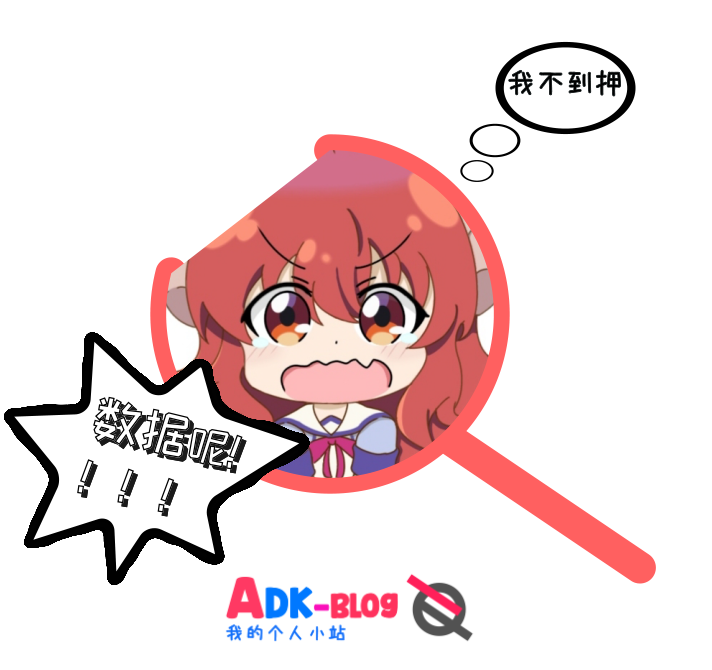
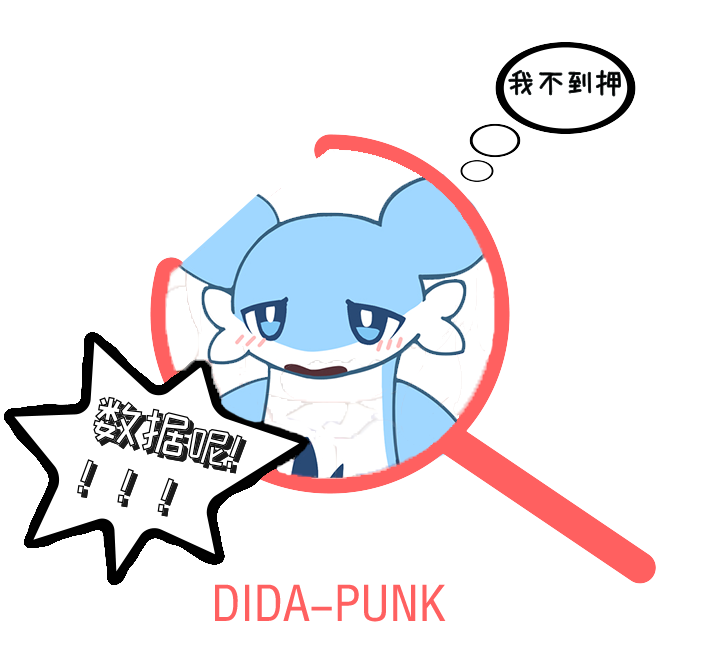
update

Changed region(s): [[0.2163, 0.209, 0.7107, 0.7164], [0.2781, 0.8657, 0.6798, 0.9552]]

diff --git a/components.d.ts b/components.d.ts
@@ -13,11 +13,15 @@ declare module 'vue' {
     Carousel: typeof import('./src/components/Carousel/Carousel.vue')['default']
     ChatRoom: typeof import('./src/components/ChatRoom/ChatRoom.vue')['default']
     CommentItem: typeof import('./src/components/CommentItem/CommentItem.vue')['default']
+    ElAlert: typeof import('element-plus/es')['ElAlert']
     ElButton: typeof import('element-plus/es')['ElButton']
+    ElButtonGroup: typeof import('element-plus/es')['ElButtonGroup']
     ElCard: typeof import('element-plus/es')['ElCard']
     ElCarouselItem: typeof import('element-plus/es')['ElCarouselItem']
     ElCol: typeof import('element-plus/es')['ElCol']
     ElColorPicker: typeof import('element-plus/es')['ElColorPicker']
+    ElDatePicker: typeof import('element-plus/es')['ElDatePicker']
+    ElDialog: typeof import('element-plus/es')['ElDialog']
     ElDivider: typeof import('element-plus/es')['ElDivider']
     ElDropdown: typeof import('element-plus/es')['ElDropdown']
     ElDropdownItem: typeof import('element-plus/es')['ElDropdownItem']
@@ -27,14 +31,25 @@ declare module 'vue' {
     ElFormItem: typeof import('element-plus/es')['ElFormItem']
     ElHeader: typeof import('element-plus/es')['ElHeader']
     ElImage: typeof import('element-plus/es')['ElImage']
+    ElImageViewer: typeof import('element-plus/es')['ElImageViewer']
     ElInput: typeof import('element-plus/es')['ElInput']
+    ElOption: typeof import('element-plus/es')['ElOption']
+    ElPagination: typeof import('element-plus/es')['ElPagination']
+    ElRadio: typeof import('element-plus/es')['ElRadio']
+    ElRadioGroup: typeof import('element-plus/es')['ElRadioGroup']
     ElRow: typeof import('element-plus/es')['ElRow']
     ElScrollbar: typeof import('element-plus/es')['ElScrollbar']
+    ElSelect: typeof import('element-plus/es')['ElSelect']
     ElSlider: typeof import('element-plus/es')['ElSlider']
     ElSwitch: typeof import('element-plus/es')['ElSwitch']
+    ElTable: typeof import('element-plus/es')['ElTable']
+    ElTableColumn: typeof import('element-plus/es')['ElTableColumn']
+    ElTabPane: typeof import('element-plus/es')['ElTabPane']
+    ElTabs: typeof import('element-plus/es')['ElTabs']
     ElTag: typeof import('element-plus/es')['ElTag']
     ElTimeline: typeof import('element-plus/es')['ElTimeline']
     ElTimelineItem: typeof import('element-plus/es')['ElTimelineItem']
+    ElUpload: typeof import('element-plus/es')['ElUpload']
     FollowBangumiCard: typeof import('./src/components/FollowBangumiCard/FollowBangumiCard.vue')['default']
     FooterItem: typeof import('./src/components/Footer/FooterItem.vue')['default']
     Loading: typeof import('element-plus/es')['ElLoadingDirective']

diff --git a/src/components/Footer/FooterItem.vue b/src/components/Footer/FooterItem.vue
@@ -3,12 +3,13 @@
     <aside class="left">
       <p class="one">DIDA-PUNK</p>
       <p class="two">仅供学习使用 本博客站为个人用途 无任何盈利用途</p>
-      <!-- <p class="three">
-        备案/许可证编号:<a href="https://beian.miit.gov.cn" target="_blank">粤ICP备2022022555号</a>
-      </p> -->
+      <p class="three">
+        备案/许可证编号:
+        <a href="https://beian.miit.gov.cn" target="_blank">辽ICP备2023002248号-2</a>
+      </p>
     </aside>
     <div class="right">
-      <p>本项目基于MIT Licence进行开源</p>
+      <p>往生堂</p>
       <p>Copyright © 2024</p>
     </div>
   </footer>
@@ -41,6 +42,9 @@
 
     .three {
       font-size: @very-samll-text;
+      a {
+        color: #000 !important;
+      }
     }
 
     .right {

diff --git a/src/views/index/index.vue b/src/views/index/index.vue
@@ -77,7 +77,7 @@ import { useUserStore } from '@/store/user'
 const articles = ref<ArticleItemInfo[]>([])
 // const bannerList = ref<ArticleItemInfo[]>([])
 const userInfo = useStore()
-const subTitle = Number(useUserStore().userinfo.role) == 3 ? '赛博往生堂' : '滴答博客站'
+const subTitle = Number(useUserStore().userinfo.role) == 3 ? '往生堂' : 'DIDA-PUNK'
 const pageparams: PageParams = {
   page_no: 1,
   page_size: 5

diff --git a/src/assets/styles/global/color.less b/src/assets/styles/global/color.less
@@ -8,7 +8,7 @@
 @hoverColor: var(--hoverColor, rgb(250, 14, 73));
 @hoverTextColor: var(--hoverTextColor, rgb(255, 255, 255));
 @linkColor: var(--linkColor, rgb(14, 136, 250));
-@activeColor: var(--activeColor, rgb(250, 14, 73));
+@activeColor: var(--activeColor, #F3C521);
 @themeColor: var(--themeColor, rgb(250, 14, 73));
 @themeColor2: var(--themeColor2, #0f88d5);
 @shadowColor: var(--shadowColor, rgba(0, 0, 0, 0.3));
